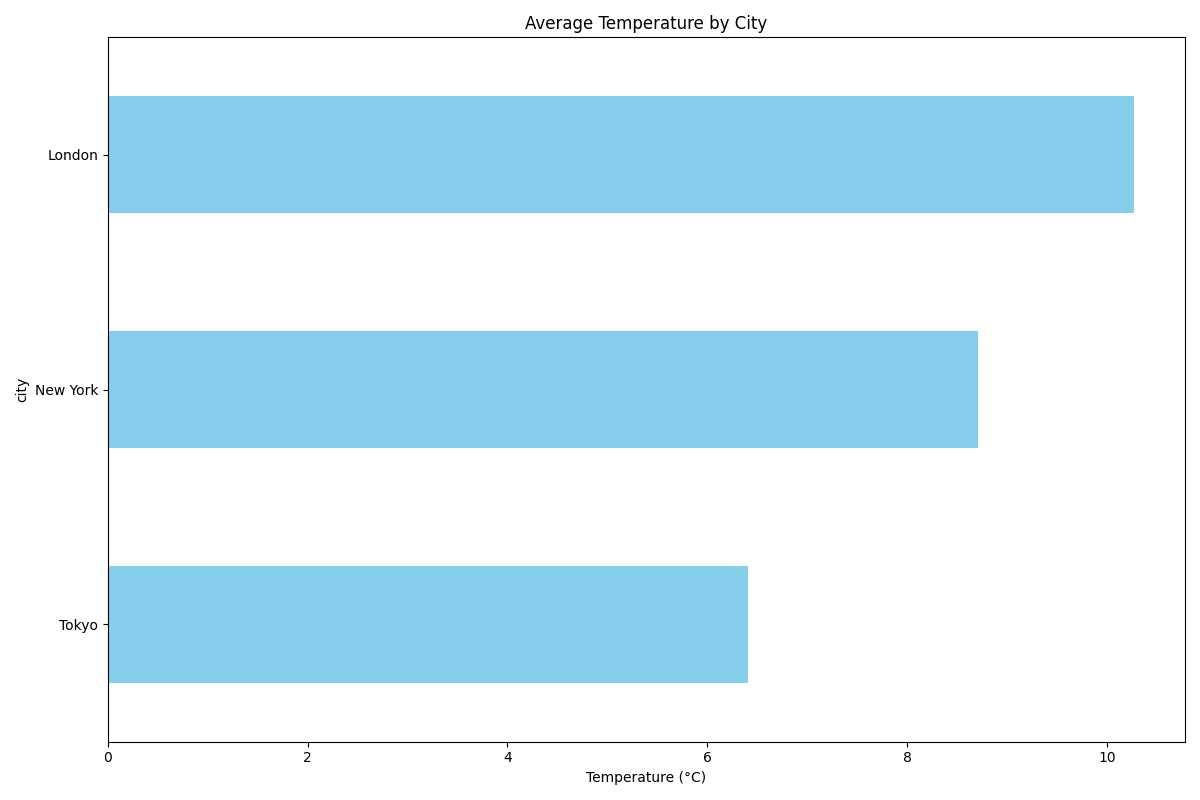
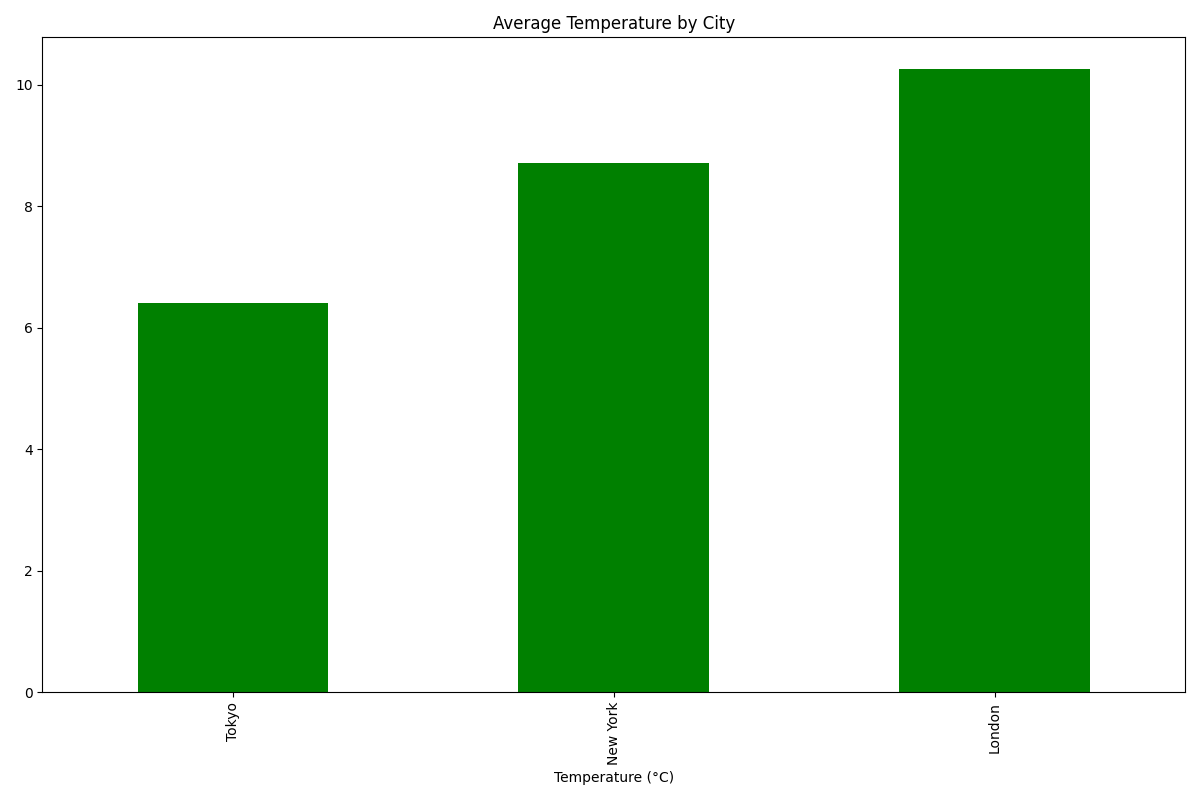
description

diff --git a/weather_pipeline.py b/weather_pipeline.py
@@ -60,7 +60,7 @@ def generate_report(df):
 def generate_chart(df):
     avg_temp = df.groupby('city')['temperature_celsius'].mean().sort_values()
     plt.figure(figsize=(12, 8))
-    avg_temp.plot(kind='barh', color='skyblue')
+    avg_temp.plot(kind='bar', color='red')
     plt.title("Average Temperature by City")
     plt.xlabel("Temperature (°C)")
     plt.tight_layout()

diff --git a/README.md b/README.md
@@ -1,2 +1,67 @@
-# weather_data_pipeline
-This project is a robust Python-based data pipeline designed to efficiently process weather data from a CSV file which handles data ingestion, cleaning, transformation, and analysis, ultimately saving processed data and generating reports.
+# Weather Data Processing Pipeline
+
+## 1. Introduction
+
+This project is a weather data processing pipeline that ingests raw weather data, cleans it, transforms it, generates a report, and provides a visualization. The focus is to ensure accurate, consistent, and clean weather data, making it ready for analysis.
+
+## 2. Step-by-Step Instructions to Run the Pipeline Locally
+
+### Prerequisites
+
+* Python 3.x installed on your system.
+* Required Python libraries installed: `pandas`, `numpy`, `matplotlib`.
+
+### Installation
+
+1. Clone the repository.
+2. Navigate to the project directory.
+3. Install the necessary packages:
+
+   ```bash
+   pip install -r requirements.txt
+   ```
+
+### Directory Setup (already done, only new dataset)
+
+* Place your raw weather data file (named `wather_data.csv`) inside the `./data/` directory.
+* The script will automatically create an `./outputs/` directory for all outputs (transformed data, report, and visualization).
+
+### Running the Pipeline
+
+```bash
+python weather_pipeline.py
+```
+
+## 3. Approach and Challenges
+
+### Approach
+
+* **Ingestion:** The raw data is ingested using `pandas.read_csv`.
+* **Cleaning:** The data is cleaned by standardizing date formats, handling missing values, and filtering out invalid weather conditions.
+* **Transformation:** Celsius temperatures are converted to Fahrenheit (added one more column).
+* **Report Generation:** A text report is created, showing the top 5 cities by average temperature.
+* **Visualization:** A bar chart is generated, displaying average temperatures by city.
+
+### Challenges
+
+* Handling multiple date formats and ensuring consistent standardization (Multiple Date formats)
+* Efficiently removing rows with unknown or invalid weather conditions without affecting valid data. (Mixed between 'Unknown' and 'unknown')
+
+## 4. Sample Output and Visualization
+
+* Transformed data saved as `transformed_weather_data.csv` in the `./outputs/` directory.
+* Text report saved as `report.txt` in the same directory.
+* Visualization saved as `temp_chart.png`.
+* Compare both the data transformed using EDA process and data data automation process (both same outputs)
+## 5. Detailed Exploratory Data Analysis (EDA)
+
+* The EDA process involves analyzing the distribution of temperatures, detecting missing values, and understanding weather condition distributions.
+* Date formats are identified using visualizations
+* Key statistics, missing value patterns, and top weather conditions are explored.
+* Visualizations are used for better insight into temperature distributions across cities.
+
+## 6. Additional Explanations
+
+* The pipeline is designed for flexibility, allowing easy modification of the data cleaning process (Just following the specified tasks)
+* The data cleaning step uses a nested function for date standardization, ensuring modularity.
+* The directory structure ensures a clear separation between input data (`./data/`) and output files (`./outputs/`).
